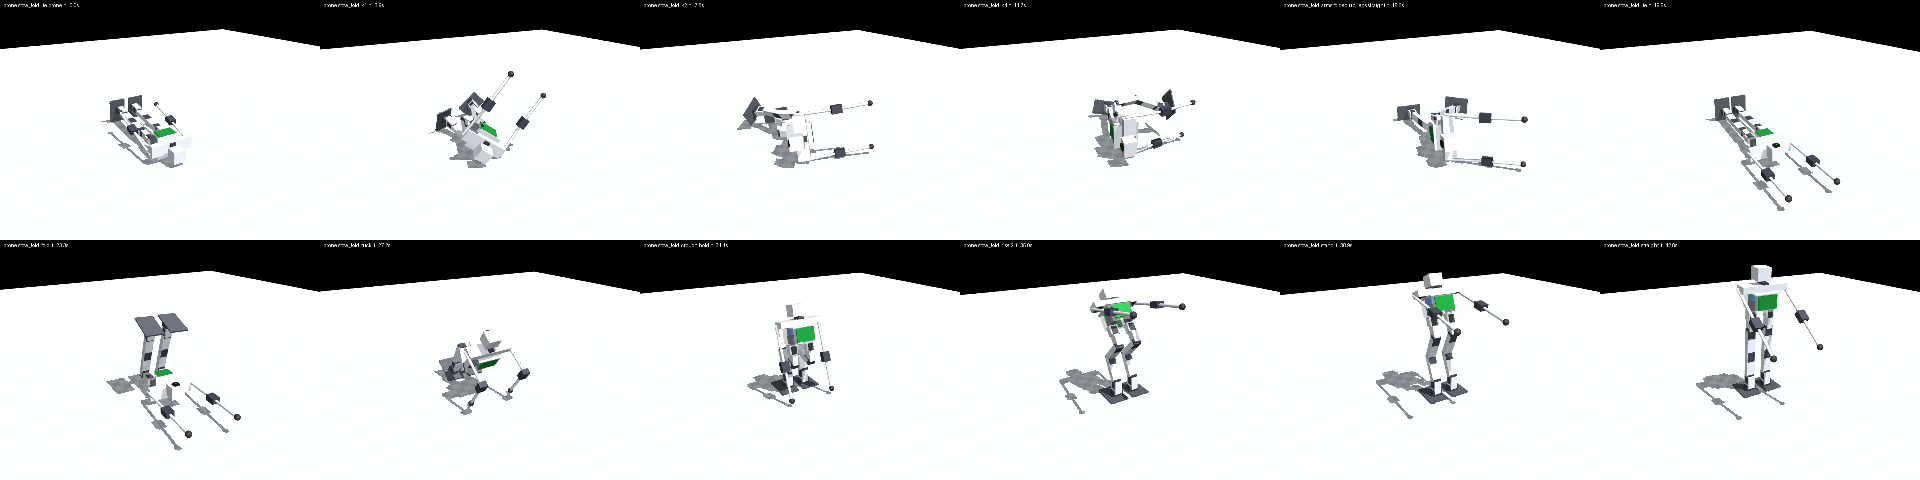
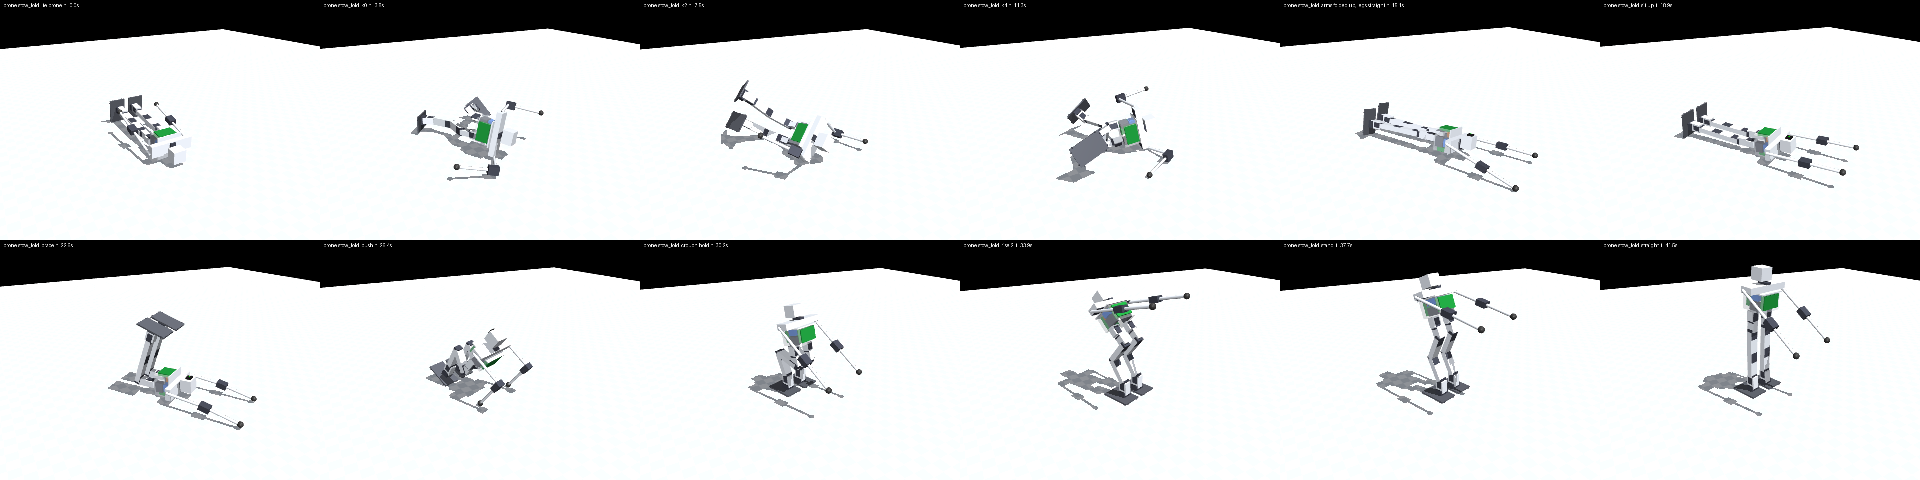
Prone study: verify a catch with its searched rise; the chain figure is the robust roll

diff --git a/sim/getup_v6_prone.py b/sim/getup_v6_prone.py
@@ -734,9 +734,15 @@ def _verify_roll_job(args):
     return run_roll(family, x, cond=c, time_scale=ts, chain=True, protection=dict(enforce=True, load=VERIFY_LOAD))
 
 
+# the searched rise from the catch's crouch (catchrise), passed as JSON in
+# PRONE_RISE so that spawned workers see it; empty = the seat push's own rise
+RISE_BEST = json.loads(os.environ.get("PRONE_RISE", "{}"))
+
+
 def _verify_catch_job(args):
     x, c, ts, kick, hd = args
-    return run_catch(x, kick=kick, cond=c, time_scale=ts, heading_deg=hd, protection=dict(enforce=True, load=VERIFY_LOAD))
+    return run_catch(x, kick=kick, cond=c, time_scale=ts, heading_deg=hd, rise=RISE_BEST or None,
+                     protection=dict(enforce=True, load=VERIFY_LOAD))
 
 
 def _prot_line(rep):
@@ -963,7 +969,10 @@ def main():
             print(f"\n#### {tag}", flush=True)
             verify(family, x)
     elif mode == "verify":
-        if len(sys.argv) > 4:
+        if len(sys.argv) > 4 and sys.argv[2] == "catch":
+            RISE_BEST.update(json.loads(sys.argv[4])); os.environ["PRONE_RISE"] = sys.argv[4]
+            print(f"   rise {sys.argv[4]}", flush=True)
+        elif len(sys.argv) > 4:
             ENTRY_BEST.update(json.loads(sys.argv[4])); os.environ["PRONE_ENTRY"] = sys.argv[4]
         verify(sys.argv[2], json.loads(sys.argv[3]))
     elif mode == "render":
